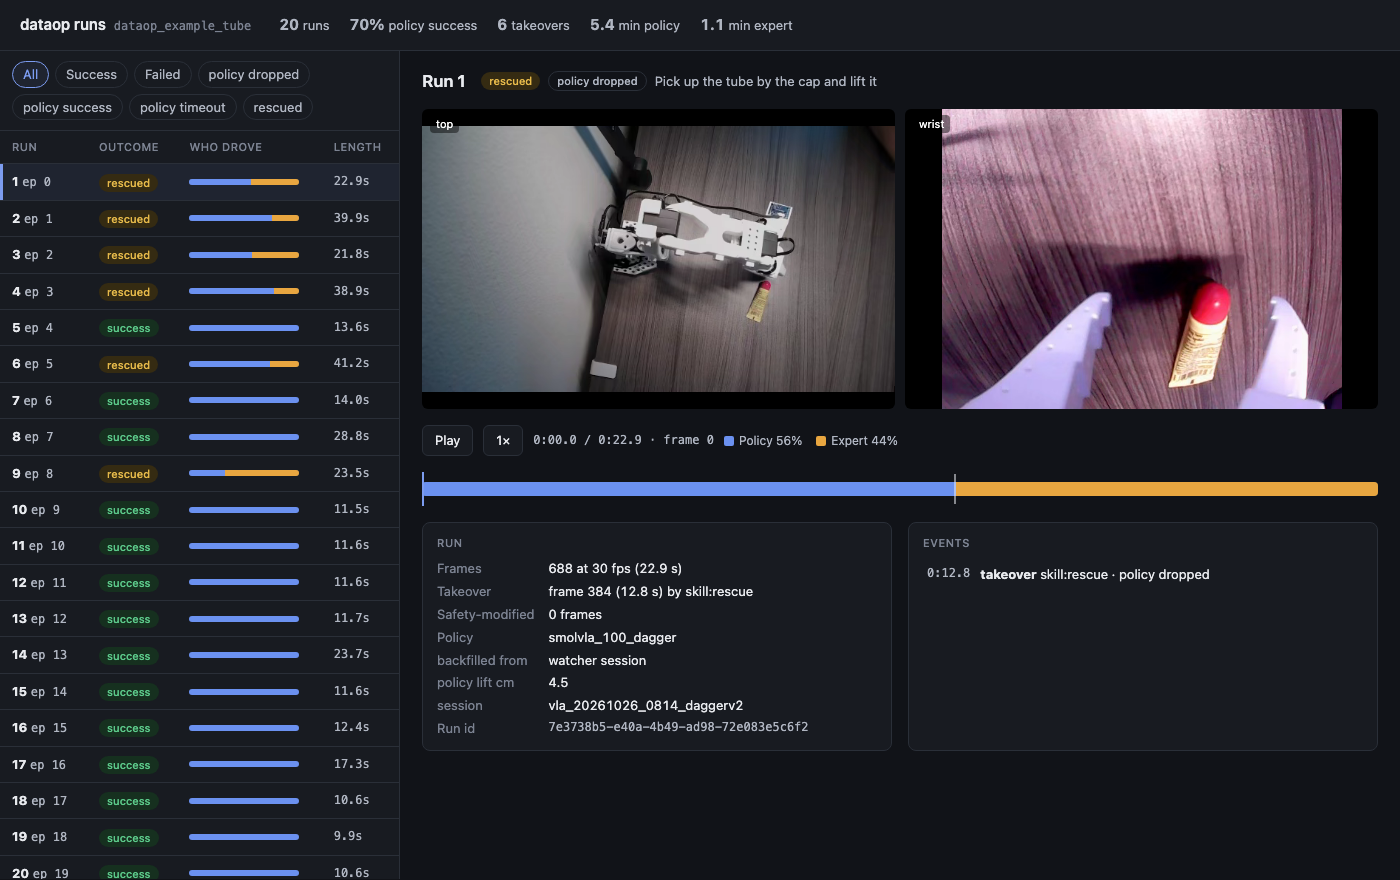
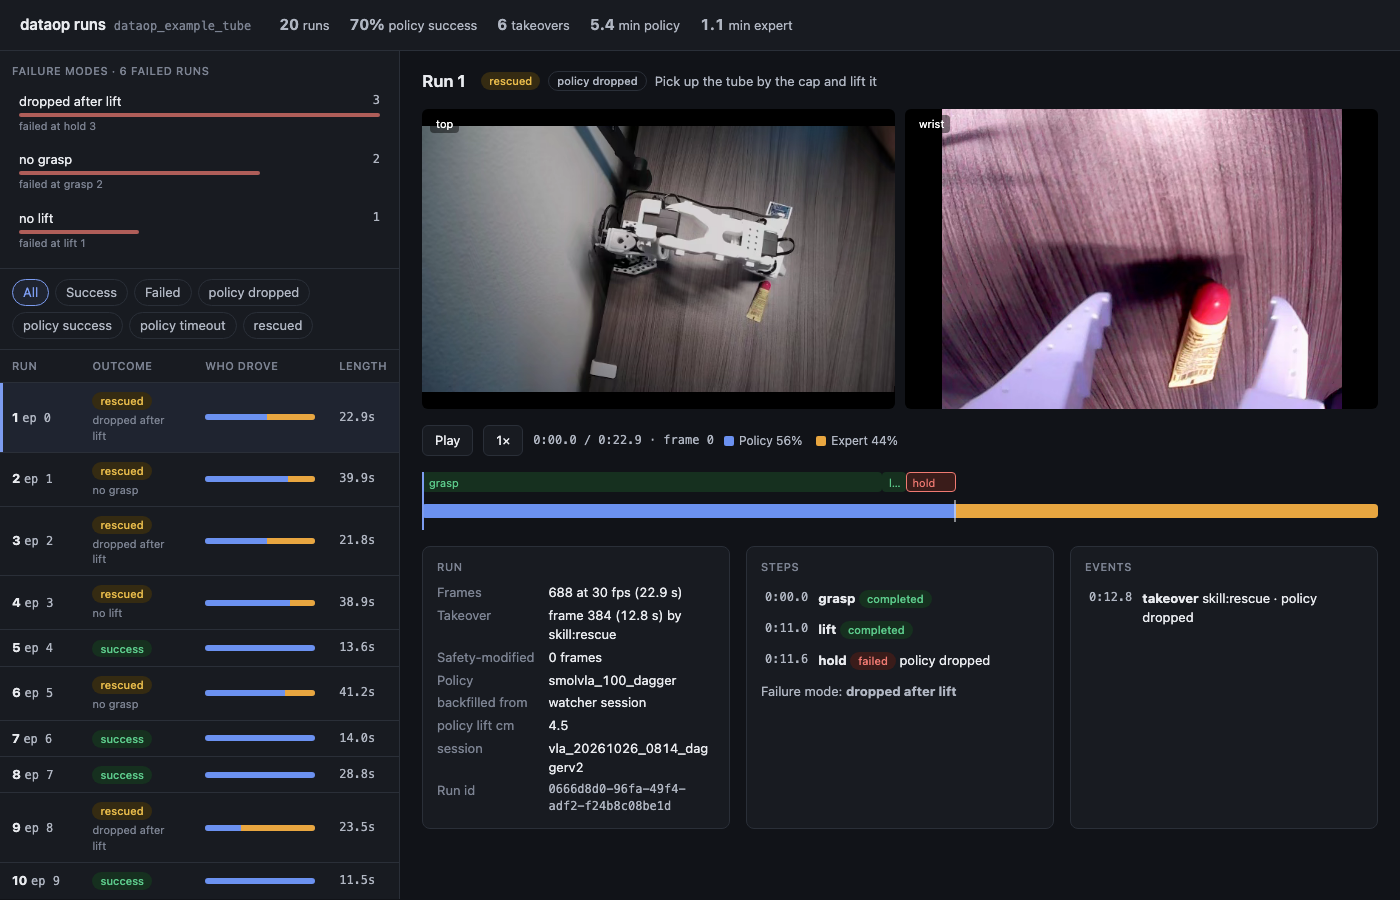
Add task steps (subgoals) and failure modes; group failures in the viewer
run.subgoal(name, status) and run.end(failure_mode=...) record where and how a
real run failed. inspect counts failure modes and failed steps; the viewer groups
failed runs by failure mode and draws each run's steps over its timeline.

Claude-Session: https://claude.ai/code/session_017hu6wS8sPT64DzXcq66WiQ

diff --git a/src/dataop_logger/viewer.html b/src/dataop_logger/viewer.html
@@ -71,11 +71,16 @@ figcaption { position: absolute; left: 8px; top: 6px; color: #fff; font-size: 11
   font: inherit; cursor: pointer; }
 .btn:hover { background: var(--hover); }
 .time { font-family: var(--mono); font-size: 12px; color: var(--ink-2); font-variant-numeric: tabular-nums; }
-.timeline { position: relative; height: 34px; cursor: pointer; user-select: none; }
-.track { position: absolute; left: 0; right: 0; top: 10px; height: 14px; border-radius: 4px; overflow: hidden; display: flex; background: var(--none); }
+.timeline { position: relative; height: 58px; cursor: pointer; user-select: none; }
+.lane { position: absolute; left: 0; right: 0; top: 0; height: 20px; }
+.sg { position: absolute; top: 0; height: 20px; border-radius: 4px; font-size: 11px; line-height: 20px; padding: 0 6px;
+  overflow: hidden; white-space: nowrap; text-overflow: ellipsis; color: var(--ink); border: 1px solid var(--line); background: var(--panel); }
+.sg.completed { background: var(--ok-bg); color: var(--ok); border-color: transparent; }
+.sg.failed { background: var(--bad-bg); color: var(--bad); border-color: var(--bad); }
+.track { position: absolute; left: 0; right: 0; top: 32px; height: 14px; border-radius: 4px; overflow: hidden; display: flex; background: var(--none); }
 .track div { height: 100%; }
-.mark { position: absolute; top: 2px; width: 2px; height: 30px; background: var(--ink); opacity: .55; pointer-events: none; }
-.head { position: absolute; top: 0; width: 2px; height: 34px; background: var(--accent); pointer-events: none; }
+.mark { position: absolute; top: 28px; width: 2px; height: 22px; background: var(--ink); opacity: .55; pointer-events: none; }
+.head { position: absolute; top: 0; width: 2px; height: 58px; background: var(--accent); pointer-events: none; }
 .legend { display: flex; gap: 14px; flex-wrap: wrap; color: var(--ink-2); font-size: 12px; }
 .legend i { display: inline-block; width: 10px; height: 10px; border-radius: 2px; margin-right: 5px; vertical-align: -1px; }
 .cols { display: grid; grid-template-columns: repeat(auto-fit, minmax(260px, 1fr)); gap: 16px; }
@@ -86,6 +91,15 @@ dt { color: var(--ink-3); }
 dd { margin: 0; font-variant-numeric: tabular-nums; overflow-wrap: anywhere; }
 .ev { display: flex; gap: 10px; padding: 6px 4px; border-radius: 4px; cursor: pointer; }
 .ev:hover { background: var(--hover); }
+.fails { padding: 12px; border-bottom: 1px solid var(--line); display: flex; flex-direction: column; gap: 6px; }
+.fails h3 { margin: 0 0 2px; font-size: 11px; font-weight: 500; text-transform: uppercase; letter-spacing: .05em; color: var(--ink-3); }
+.fm { display: grid; grid-template-columns: 1fr auto; gap: 2px 10px; align-items: center; cursor: pointer; padding: 4px 6px;
+  border-radius: 6px; border: 1px solid transparent; background: transparent; color: inherit; font: inherit; text-align: left; }
+.fm:hover { background: var(--hover); }
+.fm[aria-pressed="true"] { border-color: var(--accent); background: var(--hover); }
+.fm .bar { grid-column: 1 / -1; height: 4px; border-radius: 2px; background: var(--bad); opacity: .7; }
+.fm small { color: var(--ink-3); grid-column: 1 / -1; }
+.sub { display: block; color: var(--ink-3); font-size: 11px; margin-top: 2px; }
 .empty { color: var(--ink-3); padding: 40px; text-align: center; }
 </style>
 </head>
@@ -96,6 +110,7 @@ dd { margin: 0; font-variant-numeric: tabular-nums; overflow-wrap: anywhere; }
 </header>
 <main>
   <section id="list" aria-label="Runs">
+    <div class="fails" id="fails" hidden></div>
     <div class="filters" id="filters"></div>
     <table>
       <thead><tr><th>Run</th><th>Outcome</th><th>Who drove</th><th>Length</th></tr></thead>
@@ -131,6 +146,31 @@ document.getElementById("ds").textContent = DATA.dataset;
   ].map(([v, l]) => `<span class="stat"><b>${v}</b>${l}</span>`).join("");
 })();
 
+function drawFails() {
+  const el = document.getElementById("fails");
+  const groups = {};
+  runs.filter(r => r.failure_mode).forEach(r => {
+    const g = groups[r.failure_mode] ||= { n: 0, steps: {} };
+    g.n++;
+    const sg = r.subgoals.find(s => s.status === "failed");
+    if (sg) g.steps[sg.name] = (g.steps[sg.name] || 0) + 1;
+  });
+  const rows = Object.entries(groups).sort((a, b) => b[1].n - a[1].n);
+  if (!rows.length) { el.hidden = true; return; }
+  const max = rows[0][1].n, failed = runs.filter(r => r.outcome !== "success").length;
+  el.hidden = false;
+  el.innerHTML = `<h3>Failure modes · ${failed} failed runs</h3>` + rows.map(([m, g]) => `
+    <button class="fm" data-fm="${esc(m)}" aria-pressed="${filter === "fm:" + m}">
+      <span>${esc(m.replace(/_/g, " "))}</span><span class="num">${g.n}</span>
+      <span class="bar" style="width:${100 * g.n / max}%"></span>
+      ${Object.keys(g.steps).length ? `<small>failed at ${Object.entries(g.steps).map(([k, v]) => esc(k) + " " + v).join(", ")}</small>` : ""}
+    </button>`).join("");
+}
+document.getElementById("fails").onclick = e => {
+  const b = e.target.closest("[data-fm]"); if (!b) return;
+  filter = filter === "fm:" + b.dataset.fm ? "all" : "fm:" + b.dataset.fm;
+  drawFails(); drawFilters(); drawRows();
+};
 const labels = [...new Set(runs.flatMap(r => r.labels))].sort();
 const FILTERS = [["all", "All"], ["success", "Success"], ["failure", "Failed"], ...labels.map(l => ["label:" + l, l.replace(/_/g, " ")])];
 function drawFilters() {
@@ -139,17 +179,18 @@ function drawFilters() {
 }
 document.getElementById("filters").onclick = e => {
   const b = e.target.closest("[data-f]"); if (!b) return;
-  filter = b.dataset.f; drawFilters(); drawRows();
+  filter = b.dataset.f; drawFails(); drawFilters(); drawRows();
 };
 function visible() {
-  return runs.filter(r => filter === "all" ? true : filter.startsWith("label:") ? r.labels.includes(filter.slice(6))
+  return runs.filter(r => filter === "all" ? true : filter.startsWith("fm:") ? r.failure_mode === filter.slice(3)
+    : filter.startsWith("label:") ? r.labels.includes(filter.slice(6))
     : filter === "success" ? r.outcome === "success" : r.outcome !== "success");
 }
 function drawRows() {
   document.getElementById("rows").innerHTML = visible().map(r => `
     <tr class="row" tabindex="0" data-id="${r.run_id}" aria-selected="${current && current.run_id === r.run_id}">
       <td><b>${esc(r.env.run ?? r.episode)}</b> <span class="num">ep ${r.episode}</span></td>
-      <td>${outcomePill(r)}</td>
+      <td>${outcomePill(r)}${r.failure_mode ? `<span class="sub">${esc(r.failure_mode.replace(/_/g, " "))}</span>` : ""}</td>
       <td><div class="mini" title="${r.segments.map(s => MODE[s[2]] + " " + s[0] + "–" + s[1]).join(", ")}">
         ${r.segments.map(s => `<div style="width:${100 * (s[1] - s[0]) / r.length}%;background:${color(s[2])}"></div>`).join("")}</div></td>
       <td class="num">${(r.length / r.fps).toFixed(1)}s</td>
@@ -185,6 +226,8 @@ function select(id) {
         .map(m => `<span><i style="background:${color(m)}"></i>${MODE[m]} ${Math.round(100 * frac(r, m))}%</span>`).join("")}</div>
     </div>
     <div class="timeline" id="tl" role="slider" aria-label="Episode position" tabindex="0">
+      <div class="lane">${r.subgoals.map(s => `<div class="sg ${s.status}" style="left:${100 * s.start_frame / r.length}%;width:${100 * (s.end_frame - s.start_frame) / r.length}%"
+        title="${esc(s.name)}: ${s.status}${s.reason ? " (" + esc(s.reason) + ")" : ""}, frames ${s.start_frame}–${s.end_frame}">${esc(s.name)}</div>`).join("")}</div>
       <div class="track">${r.segments.map(s => `<div style="width:${100 * (s[1] - s[0]) / r.length}%;background:${color(s[2])}"
         title="${MODE[s[2]]}${s[3] ? " (" + esc(s[3]) + ")" : ""}: frames ${s[0]}–${s[1]}"></div>`).join("")}</div>
       ${r.events.map(e => `<div class="mark" style="left:${100 * e.frame / r.length}%"></div>`).join("")}
@@ -199,6 +242,10 @@ function select(id) {
         ${extras.map(([k, v]) => `<dt>${esc(k.replace(/_/g, " "))}</dt><dd>${esc(v)}</dd>`).join("")}
         <dt>Run id</dt><dd class="num">${r.run_id}</dd>
       </dl></div>
+      ${r.subgoals.length ? `<div class="card"><h3>Steps</h3>${r.subgoals.map(s => `<div class="ev" tabindex="0" data-frame="${s.end_frame - 1}">
+        <span class="time">${fmt(s.start_frame / r.fps)}</span><span><b>${esc(s.name)}</b>
+        <span class="pill ${s.status === "completed" ? "ok" : s.status === "failed" ? "bad" : "tag"}">${s.status}</span> ${esc(s.reason || "")}</span></div>`).join("")}
+        ${r.failure_mode ? `<div class="task" style="margin-top:6px">Failure mode: <b>${esc(r.failure_mode.replace(/_/g, " "))}</b></div>` : ""}</div>` : ""}
       <div class="card"><h3>Events</h3>${r.events.map((e, i) => `<div class="ev" tabindex="0" data-frame="${e.frame}">
         <span class="time">${fmt(e.frame / r.fps)}</span><span><b>${esc(e.kind)}</b> ${esc([e.source, e.reason, e.text].filter(Boolean).join(" · "))}</span></div>`).join("")
         || `<div class="task">No events in this run.</div>`}</div>
@@ -248,7 +295,7 @@ function wire(r) {
   vids.forEach(v => v.addEventListener("loadedmetadata", () => { v.currentTime = +v.dataset.t0 + t; }, { once: true }));
 }
 
-drawFilters(); drawRows();
+drawFails(); drawFilters(); drawRows();
 const firstRescue = runs.find(r => r.labels.includes("rescued")) || runs[0];
 if (firstRescue) select(firstRescue.run_id);
 </script>

diff --git a/src/dataop_logger/logger.py b/src/dataop_logger/logger.py
@@ -16,8 +16,8 @@ import pyarrow as pa
 
 from . import adapter, store
 from .fingerprint import fingerprint
-from .schema import (CONTROL_MODES, SCHEMA_VERSION, TERMINAL_FLAG, TERMINATION_REASONS, ActionSchema,
-                     EnvInfo, PolicyInfo)
+from .schema import (CONTROL_MODES, SCHEMA_VERSION, SUBGOAL_STATUSES, TERMINAL_FLAG, TERMINATION_REASONS,
+                     ActionSchema, EnvInfo, PolicyInfo)
 
 try:                                                     # recorded in manifests
     from importlib.metadata import version as _pkg_version
@@ -248,6 +248,15 @@ class Run:
                              "frame_index": len(self._rows) - 1, "kind": kind, "source": source,
                              "reason": reason, "text": text})
 
+    def subgoal(self, name: str, status: str, reason: str | None = None) -> None:
+        """Mark a step of the task. Call "started" just before its first frame, "completed" or "failed" just after its
+        last. A step with no "started" begins where the previous step ended. Summarised as manifest["subgoals"]."""
+        if not isinstance(name, str) or not name:
+            raise ValueError("subgoal name must be a non-empty string")
+        if status not in SUBGOAL_STATUSES:
+            raise ValueError(f"subgoal status must be one of {SUBGOAL_STATUSES}")
+        self.event("subgoal", source=name, reason=reason, text=status)
+
     def predictions(self, inference_id: int, action_chunk, obs_frame_index: int, infer_start_ns: int,
                     infer_end_ns: int, valid_len: int | None = None) -> None:
         self._require("active")
@@ -275,7 +284,8 @@ class Run:
 
     # ── ending ───────────────────────────────────────────────────────────────
 
-    def end(self, termination_reason: str, task_success: bool | None = None, labels: list[str] | None = None) -> None:
+    def end(self, termination_reason: str, task_success: bool | None = None, labels: list[str] | None = None,
+            failure_mode: str | None = None) -> None:
         """Seal and stage the run. The final tick's terminated/truncated flag is set from the reason.
 
         Saving to LeRobot and commit happen when the run block exits; do not touch the dataset in between.
@@ -295,7 +305,10 @@ class Run:
         self._check_rows()
         self._check_buffer()
         self.ended_at = _now_iso()
+        if failure_mode is not None and (not isinstance(failure_mode, str) or not failure_mode):
+            raise ValueError("failure_mode must be a non-empty string or None")
         self._end = {"termination_reason": termination_reason, "task_success": task_success,
+                     "failure_mode": failure_mode,
                      "labels": sorted(set(labels or [])),
                      "rl_ready": all(r["reward_valid"] for r in self._rows)}
         self._write_files("staged")
@@ -377,6 +390,7 @@ class Run:
             **self._end,
             "fingerprint": fingerprint(self.schema.id, self.task, sent),
             "events": self._events, "takeovers": derive_takeovers(self._rows),
+            "subgoals": derive_subgoals(self._events, len(self._rows)),
             "policy": asdict(self.policy) if self.policy else None,
             "env": {**asdict(self.env), "software": {"lerobot": _lerobot_version(), "dataop_logger": _DATAOP_VERSION}},
             "action_schema": {**self.schema.to_dict(), "id": self.schema.id},
@@ -446,3 +460,23 @@ def derive_takeovers(rows) -> list[dict]:
                             "expert_source": r0["expert_source"]})
             start = i
     return out
+
+
+def derive_subgoals(events, length: int) -> list[dict]:
+    """Spans of the task's steps from subgoal events: [{name, start_frame, end_frame, status, reason}], end exclusive.
+    A step still open when the run ends is "unfinished"."""
+    out, open_, prev_end = [], {}, 0
+    for e in events:
+        if e.get("kind") != "subgoal":
+            continue
+        name, status, f = e["source"], e["text"], e["frame_index"]
+        if status == "started":
+            open_[name] = f + 1
+            continue
+        start = open_.pop(name, prev_end)
+        end = max(start, f + 1)
+        out.append({"name": name, "start_frame": start, "end_frame": end, "status": status, "reason": e.get("reason")})
+        prev_end = end
+    for name, start in open_.items():
+        out.append({"name": name, "start_frame": start, "end_frame": length, "status": "unfinished", "reason": None})
+    return sorted(out, key=lambda s: (s["start_frame"], s["end_frame"]))

diff --git a/src/dataop_logger/validate.py b/src/dataop_logger/validate.py
@@ -171,7 +171,13 @@ def _check_run(run_path: Path, m: dict, episodes: dict, errors: list) -> bool:
     from .logger import derive_takeovers
     if derive_takeovers(rows) != m["takeovers"]:
         err("takeovers summary does not match the per-tick control modes")
+    from .logger import derive_subgoals
+    from .schema import SUBGOAL_STATUSES
+    if "subgoals" in m and derive_subgoals(m["events"], n) != m["subgoals"]:
+        err("subgoals summary does not match the subgoal events")
     for ev_ in m["events"]:
+        if ev_.get("kind") == "subgoal" and (not ev_.get("source") or ev_.get("text") not in SUBGOAL_STATUSES):
+            err(f"event {ev_.get('event_id')} is a subgoal without a name or a valid status")
         if not -1 <= ev_.get("frame_index", -2) < n:
             err(f"event {ev_.get('event_id')} frame_index out of range")
         if not isinstance(ev_.get("ns"), int) or ev_["ns"] < 0:
@@ -339,15 +345,22 @@ def repair(root: Path, delete_unmatched: bool = False, action_key: str = "action
 def inspect(root: Path) -> dict:
     root = Path(root)
     outcomes, minutes, takeovers, runs = defaultdict(int), defaultdict(float), 0, 0
+    failure_modes, failed_subgoals = defaultdict(int), defaultdict(int)
     for run_path, m in store.iter_manifests(root, "committed"):
         runs += 1
         outcomes[m["termination_reason"]] += 1
         takeovers += len(m.get("takeovers", []))
+        if m.get("failure_mode"):
+            failure_modes[m["failure_mode"]] += 1
+        for sg in m.get("subgoals", []):
+            if sg["status"] == "failed":
+                failed_subgoals[sg["name"]] += 1
         rate = m["action_schema"]["rate_hz"]
         modes = pq.read_table(run_path / "ticks.parquet", columns=["control_mode"]).column("control_mode").to_pylist()
         for mode in modes:
             minutes[mode] += 1 / rate / 60
     return {"runs": runs, "outcomes": dict(outcomes), "takeovers": takeovers,
+            "failure_modes": dict(failure_modes), "failed_subgoals": dict(failed_subgoals),
             "minutes_by_control_mode": {k: round(v, 2) for k, v in minutes.items()}}
 
 

diff --git a/tests/test_logger.py b/tests/test_logger.py
@@ -569,3 +569,30 @@ def test_more_episodes_than_lerobot_metadata_buffer(tmp_path):
     ds.finalize()
     assert all(r.state == "committed" for r in runs)
     assert V.validate(ds.root)["ok"]
+
+
+def test_subgoals_and_failure_mode(tmp_path):
+    ds = make_ds(tmp_path)
+    with RunLogger(ds, SCHEMA) as log:
+        with log.run(task=TASK) as run:
+            run.subgoal("grasp", "started")
+            for i in range(10):
+                if i == 4:
+                    run.subgoal("grasp", "completed")
+                    run.subgoal("lift", "started")
+                run.add_frame(frame(i), sent_action=np.zeros(6), base_action=np.zeros(6), control_mode="base",
+                              inference_id=i, chunk_offset=0, **ts())
+            run.subgoal("lift", "failed", reason="tube slipped")
+            with pytest.raises(ValueError):
+                run.subgoal("lift", "done")
+            run.end(termination_reason="failure", failure_mode="dropped_during_lift")
+        record(log, 5)
+    ds.finalize()
+    m = store.read_manifest(run.run_path)
+    assert m["failure_mode"] == "dropped_during_lift"
+    assert m["subgoals"] == [
+        {"name": "grasp", "start_frame": 0, "end_frame": 4, "status": "completed", "reason": None},
+        {"name": "lift", "start_frame": 4, "end_frame": 10, "status": "failed", "reason": "tube slipped"}]
+    assert V.validate(ds.root)["ok"]
+    info = V.inspect(ds.root)
+    assert info["failure_modes"] == {"dropped_during_lift": 1} and info["failed_subgoals"] == {"lift": 1}

diff --git a/src/dataop_logger/viewer.py b/src/dataop_logger/viewer.py
@@ -59,9 +59,11 @@ def collect(root: Path) -> dict:
             "run_id": m["run_id"], "episode": m["episode_index"], "task": m["task"], "length": m["length"],
             "fps": m["action_schema"]["rate_hz"], "outcome": m["termination_reason"],
             "task_success": m.get("task_success"), "labels": m.get("labels", []),
+            "failure_mode": m.get("failure_mode"), "subgoals": m.get("subgoals", []),
             "takeovers": m.get("takeovers", []),
             "events": [{"frame": e["frame_index"], "kind": e["kind"], "source": e.get("source"),
-                        "reason": e.get("reason"), "text": e.get("text")} for e in m.get("events", [])],
+                        "reason": e.get("reason"), "text": e.get("text")} for e in m.get("events", [])
+                       if e["kind"] != "subgoal"],
             "segments": _segments(modes, sources),
             "safety_modified": int(sum(t.column("safety_modified").to_pylist())),
             "policy": (m.get("policy") or {}).get("source"),

diff --git a/src/dataop_logger/schema.py b/src/dataop_logger/schema.py
@@ -11,6 +11,7 @@ SCHEMA_VERSION = 1
 KNOWN_SPACES = {"joint_position", "joint_velocity", "ee_delta", "ee_pose"}
 CONTROL_MODES = ("base", "expert", "blend", "none")
 TERMINATION_REASONS = ("success", "failure", "timeout", "operator_abort", "system_error")
+SUBGOAL_STATUSES = ("started", "completed", "failed")
 TERMINAL_FLAG = {"success": "terminated", "failure": "terminated",          # final-tick flag each reason implies
                  "timeout": "truncated", "operator_abort": "truncated", "system_error": "truncated"}
 

diff --git a/SPEC.md b/SPEC.md
@@ -73,6 +73,8 @@ v0 cannot separate the arbitration output from a safety-filter correction, and d
 - `task`, `started_at`/`ended_at` (wall clock, for humans only)
 - `termination_reason`: `success`, `failure`, `timeout`, `operator_abort`, `system_error`; `task_success`: bool or null; `labels`: list of namespaced strings (`failure:dropped`, `safety:collision`)
 - `events`: typed list `{event_id, ns, frame_index, kind, source, reason, text}` for takeover requests, handbacks, drops
+- `subgoals`: derived summary of the task's steps from `subgoal` events, `{name, start_frame, end_frame, status, reason}` with `end_frame` exclusive and status `completed`, `failed` or `unfinished`
+- `failure_mode`: free-text name for how the run failed (`dropped_after_lift`, `no_grasp`), or null; groups failures across runs
 - `takeovers`: derived summary of half-open ranges `[start_frame, end_frame)` per `control_mode` and `expert_source`
 - `policy`: family, hub repo and revision or artifact sha256, code revision, config digest, chunk size, temporal ensembling, device and precision
 - `env`: typed `robot_id`, `calibration_digest`, `operator` (pseudonym), `software` (lerobot and dataop-logger versions), plus free-form `extras` (lighting, etc.)
@@ -107,7 +109,7 @@ with log.run(task="pick up the tube", policy=policy_info, env=env) as run:
 - `run.discard()` clears both the LeRobot episode buffer and the staged run (re-record).
 - Crash recovery with `validate --repair` is non-destructive: an exact unique fingerprint match is committed; no match or several matches move the run to `dataop/quarantine/<run_id>/` and are reported; deletion only with `--delete-unmatched`.
 - Crash points: before stage, nothing written; after stage and before or during save, a staged run with no matching episode goes to quarantine; after save and before commit, the staged run matches and is committed; after commit and before the index rebuild, the index is rebuilt from manifests.
-- `run.event(kind, source, reason, text)` adds a typed event. `run.predictions(inference_id, chunk, ...)` logs a chunk.
+- `run.event(kind, source, reason, text)` adds a typed event. `run.subgoal(name, status, reason)` adds a `subgoal` event (`started`, `completed` or `failed`); a step with no `started` begins where the previous one ended. `run.end(..., failure_mode=...)` names the failure. `run.predictions(inference_id, chunk, ...)` logs a chunk.
 - Local filesystem only in v0; temp files in the destination directory, fsync, then rename. Remote URIs raise.
 
 ## CLI

diff --git a/skills/dataop-logger/SKILL.md b/skills/dataop-logger/SKILL.md
@@ -103,9 +103,11 @@ run.event("takeover", source="human", reason="tube slipping")
 
 Call it just before adding the first frame it describes; it is attached to the last frame already added. `kind`, `source` and `reason` are free text. Takeovers are also derived from `control_mode` on their own, so the event is for search and context.
 
+If the project already detects task steps (grasped, lifted, placed), mark them with `run.subgoal(name, "started" | "completed" | "failed", reason=None)`: "started" just before a step's first frame, "completed" or "failed" just after its last. Do not invent step detection the project does not have.
+
 ## 6. End each run truthfully
 
-Call `run.end(termination_reason=...)` with one of `success`, `failure`, `timeout`, `operator_abort` or `system_error`, from whatever the project already knows (a success detector, a timeout, the operator's key). Pass `task_success=` and `labels=[...]` when known. If the project has no success signal, ask the user how a run's outcome is decided. If you cannot ask, pick the closest rule the code supports (for example, a run with a takeover is a `failure`), write it as a comment next to `run.end`, and list it in your report as an assumption.
+Call `run.end(termination_reason=...)` with one of `success`, `failure`, `timeout`, `operator_abort` or `system_error`, from whatever the project already knows (a success detector, a timeout, the operator's key). Pass `task_success=`, `labels=[...]` and `failure_mode="<how it failed>"` when known. If the project has no success signal, ask the user how a run's outcome is decided. If you cannot ask, pick the closest rule the code supports (for example, a run with a takeover is a `failure`), write it as a comment next to `run.end`, and list it in your report as an assumption.
 
 If an exception escapes the `run` block, or the block ends without `run.end()`, the episode is discarded from both LeRobot and the sidecar, never half-saved.
 

diff --git a/README.md b/README.md
@@ -91,6 +91,20 @@ Typed events mark moments worth finding later:
 run.event("takeover", source="human", reason="tube slipping")
 ```
 
+## Task steps and failure modes
+
+Pass-fail hides why a run failed. Mark the task's steps as they happen, and name the failure when the run ends:
+
+```python
+run.subgoal("grasp", "started")          # just before the step's first frame
+...
+run.subgoal("grasp", "completed")        # just after its last frame; the next step starts here
+run.subgoal("lift", "failed", reason="tube slipped")
+run.end(termination_reason="failure", failure_mode="dropped_during_lift")
+```
+
+The manifest gets a `subgoals` list of frame spans with their status. `inspect` counts failure modes and failed steps across runs, and the viewer groups failed runs by failure mode and draws each run's steps above its timeline. Steps can come from anything your stack already knows: a success detector, gripper and height thresholds, or a person's label.
+
 ## Rewards for RL
 
 Pass `reward=` on `add_frame`, or, if your reward arrives one loop late, attach it to the previous tick:
@@ -137,6 +151,8 @@ dataop-logger view <dataset_root>      # opens http://127.0.0.1:8765/dataop/view
 A local, read-only page: every run with its outcome and a strip showing who drove each frame, then the selected run's camera videos in sync with a control-mode timeline. Click the timeline or an event to jump to that moment. Nothing leaves your machine. `--build-only` writes `dataop/view/index.html` without starting a server.
 
 ![viewer](docs/viewer.png)
+
+When runs carry `failure_mode` and `subgoals`, the run list opens with failed runs grouped by failure mode. Click a group to filter the list.
 
 ## Training with the extra fields
 
